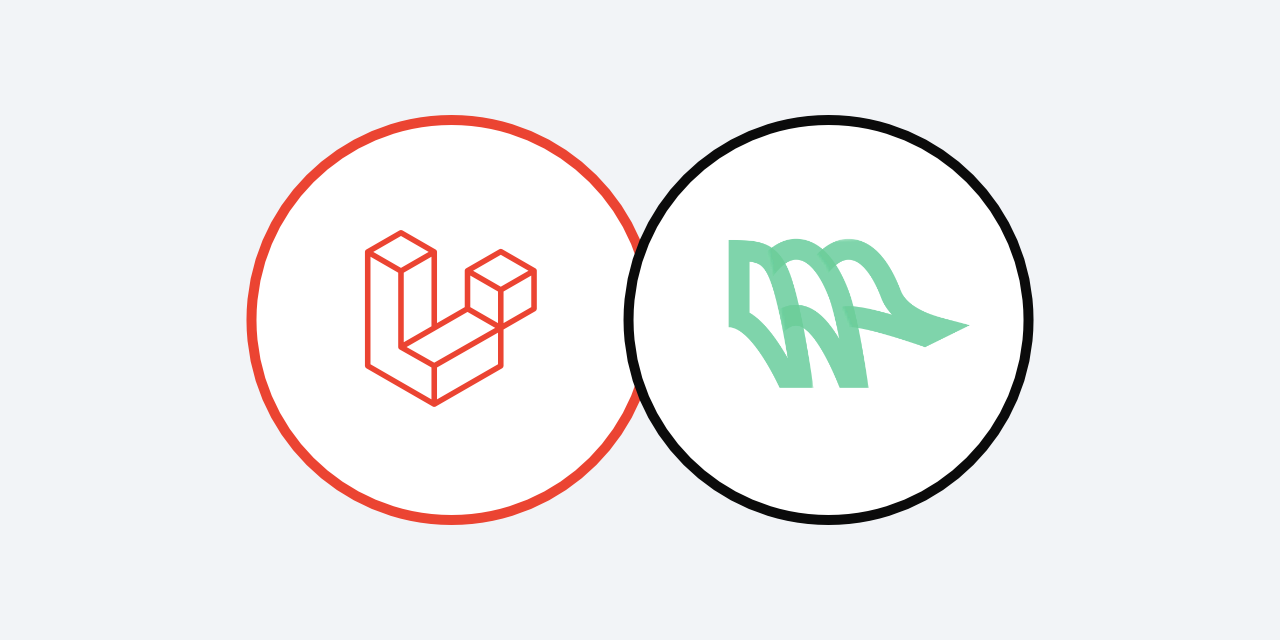
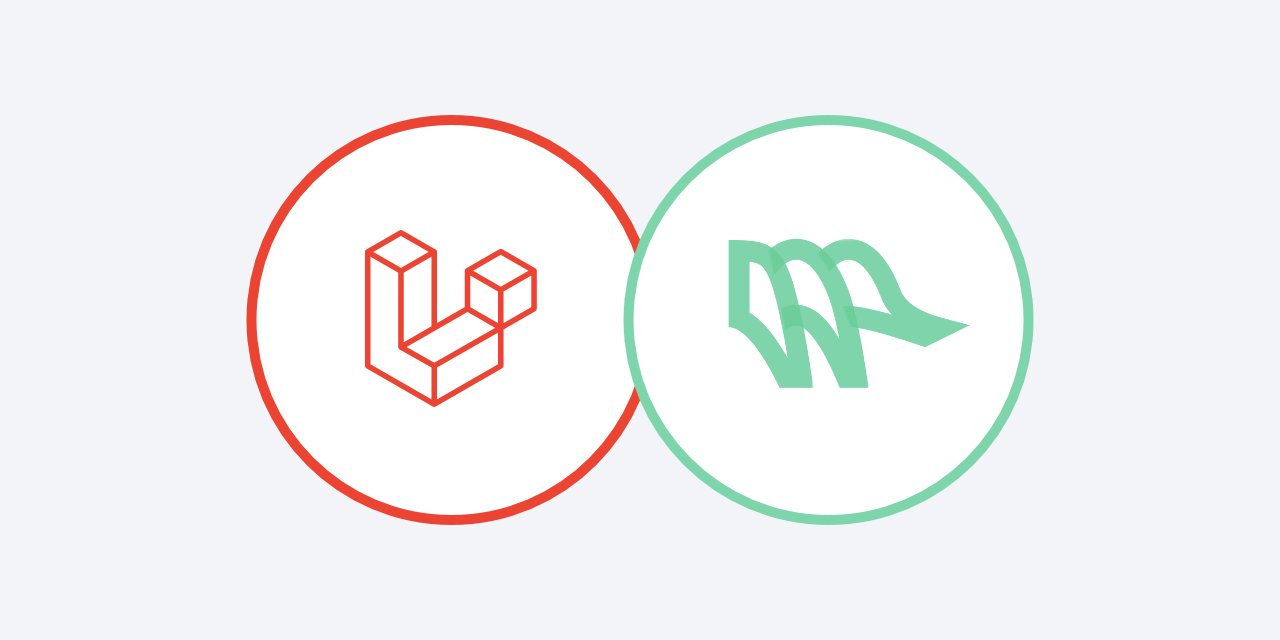
style: changed repo image

diff --git a/README.md b/README.md
@@ -185,9 +185,6 @@ Please see [CHANGELOG](CHANGELOG.md) for more information on what has changed re
 
 ## Todo
 
-- [ ] Sort test run issues when hitting the DB
-- [ ] Add the remaining tests
-- [ ] Create initial tag v0.1.0
 - [ ] Publish to Packagist
 
 ## Contributing
